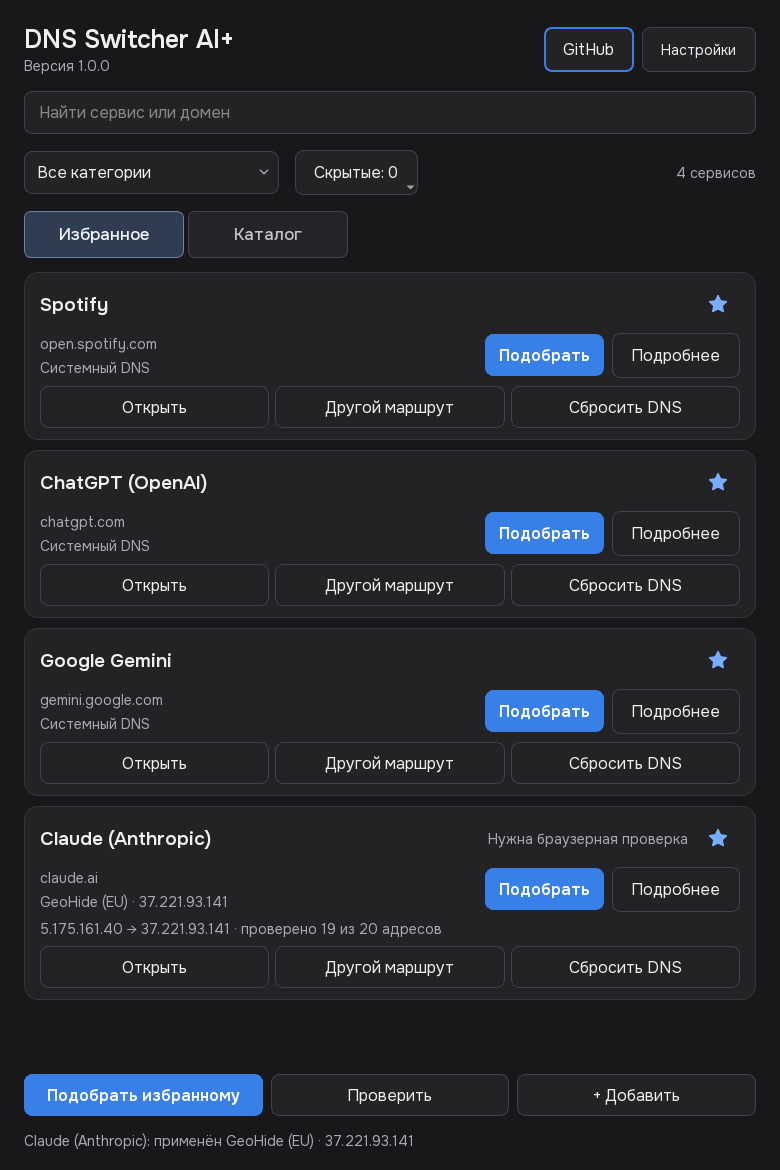
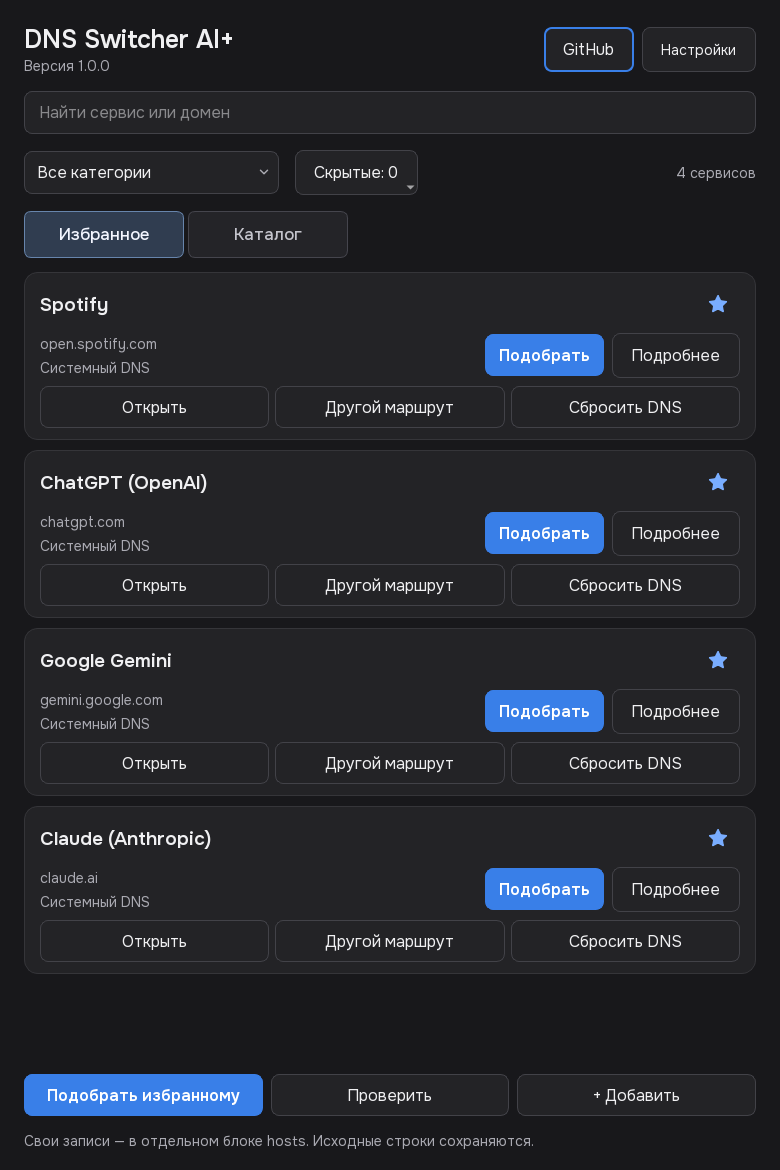
Validate provider routes strictly before applying hosts

diff --git a/tests/test_regressions.py b/tests/test_regressions.py
@@ -294,18 +294,46 @@ class Regressions(unittest.TestCase):
             self.assertTrue(client.call_args.kwargs['http2'])
             self.assertIsNone(provider.last_error)
 
-    def test_cloudflare_route_is_not_applied_without_an_explicit_switch(self):
-        service = ServiceDef(id='gemini', name='Gemini', category='AI',
-                             primary_domain='gemini.google.com', domains=['gemini.google.com'])
-        worker = VerificationWorker([service], self.hm, self.providers, self.storage, True)
-        challenge = VerificationResult('1.1.1.1', service.primary_domain, ServiceStatus.PARTIAL,
-            1, 'Cloudflare challenge: JavaScript required', 'HTTP', 403)
-        self.assertFalse(challenge.is_routable)
-        with patch.object(self.providers, 'get_candidates', return_value=[CandidateIP('1.1.1.1', 'manual', 'Test')]), \
-             patch.object(ServiceVerifier, 'verify_candidate', return_value=challenge):
+    def test_cloudflare_route_is_never_applied_even_after_explicit_switch(self):
+        for mode in ({}, {'rotate': True}, {'forced': ('1.1.1.1', 'Test')}):
+            with self.subTest(mode=mode):
+                service = ServiceDef(id='gemini', name='Gemini', category='AI',
+                                     primary_domain='gemini.google.com', domains=['gemini.google.com'])
+                before = self.hosts.read_bytes()
+                worker = VerificationWorker([service], self.hm, self.providers, self.storage, True, **mode)
+                challenge = VerificationResult('1.1.1.1', service.primary_domain, ServiceStatus.PARTIAL,
+                    1, 'Cloudflare challenge: JavaScript required', 'HTTP', 403)
+                with patch.object(self.providers, 'get_candidates', return_value=[CandidateIP('1.1.1.1', 'manual', 'Test')]), \
+                     patch.object(ServiceVerifier, 'verify_candidate', return_value=challenge):
+                    worker.run()
+                self.assertEqual(self.hosts.read_bytes(), before)
+                self.assertIsNone(self.storage.get_active_route('gemini'))
+
+    def test_failed_provider_api_does_not_stop_the_next_provider(self):
+        pool = [CandidateIP('1.1.1.1', 'first', 'First'), CandidateIP('8.8.4.4', 'second', 'Second')]
+        worker = VerificationWorker([self.service], self.hm, self.providers, self.storage, True)
+        def probe(ip, domain, **kwargs):
+            status = ServiceStatus.DEAD if domain == 'api.example.com' and ip == '1.1.1.1' else ServiceStatus.OK
+            return self._result(ip, domain, status)
+        with patch.object(self.providers, 'get_candidates', return_value=pool), \
+             patch.object(ServiceVerifier, 'verify_candidate', side_effect=probe):
             worker.run()
-        self.assertNotIn(service.primary_domain, self.hm.parse_all_entries())
-        self.assertIsNone(self.storage.get_active_route('gemini'))
+        route = self.storage.get_active_route('example')
+        self.assertEqual(route['ip'], '8.8.4.4')
+        self.assertEqual(set(route['domain_ips'].values()), {'8.8.4.4'})
+
+    def test_primary_and_api_from_incompatible_providers_are_not_combined(self):
+        pool = [CandidateIP('1.1.1.1', 'first', 'First'), CandidateIP('8.8.4.4', 'second', 'Second')]
+        before = self.hosts.read_bytes()
+        worker = VerificationWorker([self.service], self.hm, self.providers, self.storage, True)
+        def probe(ip, domain, **kwargs):
+            good = (domain == 'example.com' and ip == '1.1.1.1') or (domain == 'api.example.com' and ip == '8.8.4.4')
+            return self._result(ip, domain, ServiceStatus.OK if good else ServiceStatus.DEAD)
+        with patch.object(self.providers, 'get_candidates', return_value=pool), \
+             patch.object(ServiceVerifier, 'verify_candidate', side_effect=probe):
+            worker.run()
+        self.assertIsNone(self.storage.get_active_route('example'))
+        self.assertEqual(self.hosts.read_bytes(), before)
 
     def test_verified_response_has_priority_over_cloudflare_challenge(self):
         self.hm.update_service_ip('Example', '9.9.9.9', self.service.domains)
@@ -326,9 +354,8 @@ class Regressions(unittest.TestCase):
 
     def test_explicit_rotation_changes_ip_for_every_builtin_service(self):
         pool = [CandidateIP(ip, 'manual', 'Test') for ip in ('1.1.1.1', '8.8.4.4', '9.9.9.9')]
-        def challenge(ip, domain, **kwargs):
-            return VerificationResult(ip, domain, ServiceStatus.PARTIAL, 10,
-                                      'Cloudflare challenge: JavaScript required', 'HTTP', 403)
+        def verified(ip, domain, **kwargs):
+            return VerificationResult(ip, domain, ServiceStatus.OK, 10, 'Verified endpoint', 'HTTP', 200)
         for service in Catalog().list_all():
             with self.subTest(service=service.id):
                 original = ('127.0.0.1 localhost\r\n' +
@@ -343,12 +370,12 @@ class Regressions(unittest.TestCase):
                     self.storage.config.rejected_routes[service.id].append(previous)
                     worker = VerificationWorker([service], self.hm, self.providers, self.storage, True, rotate=True)
                     with patch.object(self.providers, 'get_candidates', return_value=pool), \
-                         patch.object(ServiceVerifier, 'verify_candidate', side_effect=challenge):
+                         patch.object(ServiceVerifier, 'verify_candidate', side_effect=verified):
                         worker.run()
                     route = self.storage.get_active_route(service.id)
                     self.assertIsNotNone(route)
                     self.assertNotEqual(route['ip'], previous)
-                    self.assertEqual(route['status'], 'PARTIAL')
+                    self.assertEqual(route['status'], 'OK')
                     self.assertFalse(route['confirmed'])
                     self.assertEqual(self.hm.parse_all_entries()[service.primary_domain], [route['ip']])
                     self.assertEqual(self.hm.parse_all_entries()['keep.example'], ['1.1.1.1'])
@@ -590,13 +617,13 @@ class Regressions(unittest.TestCase):
         self.assertEqual(route['ip'], '8.8.4.4')
         self.assertEqual(route['domain_ips']['api.example.com'], '8.8.4.4')
 
-    def test_old_disabled_geohide_regions_are_enabled_once(self):
+    def test_upgrade_preserves_disabled_geohide_regions(self):
         import json
         self.storage.config_path.write_text(json.dumps(dict(catalog_revision=5,
             providers_enabled={'geohide-ru': True, 'geohide-eu': False, 'geohide-us': False})))
         migrated = StorageManager(str(self.storage.data_dir))
-        self.assertTrue(migrated.config.providers_enabled['geohide-eu'])
-        self.assertTrue(migrated.config.providers_enabled['geohide-us'])
+        self.assertFalse(migrated.config.providers_enabled['geohide-eu'])
+        self.assertFalse(migrated.config.providers_enabled['geohide-us'])
         migrated.config.providers_enabled['geohide-eu'] = False
         migrated.save_config()
         self.assertFalse(StorageManager(str(self.storage.data_dir)).config.providers_enabled['geohide-eu'])

diff --git a/src/core/monitor.py b/src/core/monitor.py
@@ -74,21 +74,19 @@ class VerificationWorker(QThread):
         except OSError:
             return []
 
-    def _domain_route(self, check, selected, entries, current=False, required=True, service_id=None,
-                      allow_browser=False):
+    def _domain_route(self, check, selected, entries, current=False, required=True, service_id=None):
         domain, path, label, codes = check
         self.cancellation.check()
         provider_name = selected.provider_name
         names = {}
-        provider_ids = {}
         if current:
             ips = entries.get(domain, []) or self._resolve(domain)
         else:
             if required:
-                alternatives = self.provider_manager.get_candidates(domain, self.cancellation)
+                alternatives = [c for c in self.provider_manager.get_candidates(domain, self.cancellation)
+                                if c.provider_id == selected.provider_id]
                 ips = [c.ip for c in alternatives]
                 names = {c.ip: c.provider_name for c in alternatives}
-                provider_ids = {c.ip: c.provider_id for c in alternatives}
                 if not ips and self.forced:
                     ips = [selected.ip]
             else:
@@ -101,9 +99,8 @@ class VerificationWorker(QThread):
             return dict(domain=domain, label=label, ok=False, details='Нет адреса у провайдера')
         probes = parallel(ips, lambda ip: self._probe(ip, domain, path, codes),
                           self.cancellation, timeout=3.0, limit=64)
-        good = min((r for r in probes if r and (r.is_routable or (allow_browser and r.is_browser_challenge))),
-                   key=lambda r: (not r.is_routable, self._provider_rank(provider_ids.get(r.ip, selected.provider_id)),
-                                  r.latency_ms), default=None)
+        good = min((r for r in probes if r and r.is_routable),
+                   key=lambda r: (r.ip != selected.ip, r.latency_ms), default=None)
         last = good or next((r for r in probes if r), None)
         return dict(domain=domain, label=label, ok=bool(good), ip=good.ip if good else '',
                     provider=names.get(good.ip, provider_name) if good else provider_name,
@@ -119,7 +116,6 @@ class VerificationWorker(QThread):
             summary['failed'] += 1
             return
         deadline = time.monotonic() + 24
-        allow_browser = self.auto_fix and (self.rotate or bool(self.forced))
         entries = self.hosts_manager.get_service_current_ips(service.domains)
         current_ips = entries.get(service.primary_domain, [])
         current_ip = current_ips[0] if current_ips else ''
@@ -206,11 +202,11 @@ class VerificationWorker(QThread):
         checked = []
         viable = []
         for candidate, probe in zip(candidates, results):
-            checked.append(dict(ip=candidate.ip, provider_name=candidate.provider_name,
+            checked.append(dict(ip=candidate.ip, provider_id=candidate.provider_id, provider_name=candidate.provider_name,
                 status=probe.status.value if probe else 'DEAD', latency_ms=probe.latency_ms if probe else 0,
                 details=probe.details if probe else 'Тайм-аут', routable=bool(probe and probe.is_routable),
                 browser_required=bool(probe and probe.is_browser_challenge)))
-            if probe and (probe.is_routable or (allow_browser and probe.is_browser_challenge)):
+            if probe and probe.is_routable:
                 viable.append((candidate, probe))
         # Работоспособность проверяем первой; задержка сортирует подходящие кандидаты.
         if not self.prefer_provider_order:
@@ -220,8 +216,11 @@ class VerificationWorker(QThread):
                                           item[1].latency_ms))
         selected = best = report = None
         failure_report = []
+        failed_providers = set()
         for candidate, probe in viable:
             self.cancellation.check()
+            if candidate.provider_id in failed_providers:
+                continue
             if time.monotonic() >= deadline - 2:
                 break
             self.progress.emit(self.services.index(service) + 1, len(self.services),
@@ -229,7 +228,7 @@ class VerificationWorker(QThread):
             current = candidate.provider_id == 'current'
             other_checks = [check for check in checks if check[0] != service.primary_domain]
             reports = parallel(other_checks, lambda check: self._domain_route(check, candidate, entries, current,
-                               service_id=service.id, allow_browser=allow_browser),
+                               service_id=service.id),
                                self.cancellation, timeout=min(7.5, max(.1, deadline - time.monotonic())), limit=8)
             reports = [r or dict(domain=c[0], label=c[2], ok=False, details='Тайм-аут')
                        for c, r in zip(other_checks, reports)]
@@ -241,13 +240,13 @@ class VerificationWorker(QThread):
                 selected, best, report = candidate, probe, reports
                 break
             for row in checked:
-                if row['ip'] == candidate.ip:
+                if row['provider_id'] == candidate.provider_id:
                     row['routable'] = False
                     row['status'] = 'DEAD'
                     row['details'] = '; '.join(r['domain'] + ': ' + r['details'] for r in reports if not r['ok'])
-            if not self.forced and not current:
-                # Критичные узлы уже проверены по всему пулу, повтор для другого IP витрины бессмыслен.
-                break
+            # У этого провайдера проверен весь пул критичных доменов.
+            # Следующий провайдер может иметь рабочий вход/API, даже если первый не подошёл.
+            failed_providers.add(candidate.provider_id)
         self.cancellation.check()
         self.candidates_ready.emit(service.id, checked)
         if selected is None:
@@ -286,7 +285,7 @@ class VerificationWorker(QThread):
                 1 if any(part in d for part in ('cdn.', 'static', 'assets.', 'auth.', 'api.')) else 2, d))
             self.progress.emit(self.services.index(service) + 1, len(self.services), service.name + ': ресурсы и CDN')
             extras = parallel(extra, lambda d: self._domain_route((d, '/', d, (401, 404, 302, 307)),
-                selected, entries, required=False, service_id=service.id, allow_browser=allow_browser), self.cancellation,
+                selected, entries, required=False, service_id=service.id), self.cancellation,
                 timeout=min(7, max(.1, deadline - time.monotonic())), limit=8)
             for row in extras:
                 if row and row['ok']:

diff --git a/tests/test_verifier.py b/tests/test_verifier.py
@@ -57,6 +57,35 @@ class TestServiceVerifier(unittest.TestCase):
             self.assertEqual(result.http_code, 200)
             self.assertEqual(result.stage_reached, "HTTP")
 
+    def test_cloudflare_widget_and_csp_are_not_challenge_pages(self):
+        for response in (
+            b'HTTP/1.1 200 OK\r\nContent-Security-Policy: frame-src https://challenges.cloudflare.com\r\n\r\n<title>OpenRouter</title>',
+            b'HTTP/1.1 200 OK\r\n\r\n<title>Notion</title><script src="https://challenges.cloudflare.com/turnstile/v0/api.js"></script>'
+        ):
+            with self.subTest(response=response), patch('socket.socket'), patch('ssl.create_default_context') as context:
+                context.return_value.wrap_socket.return_value.recv.side_effect = [response, b'']
+                result = ServiceVerifier.verify_candidate('1.1.1.1', 'example.com')
+                self.assertEqual(result.status, ServiceStatus.OK)
+                self.assertFalse(result.is_browser_challenge)
+
+    def test_real_cloudflare_challenge_is_never_routable(self):
+        with patch('socket.socket'), patch('ssl.create_default_context') as context:
+            context.return_value.wrap_socket.return_value.recv.side_effect = [
+                b'HTTP/1.1 403 Forbidden\r\ncf-mitigated: challenge\r\n\r\n<title>Just a moment...</title>', b'']
+            result = ServiceVerifier.verify_candidate('1.1.1.1', 'example.com')
+            self.assertTrue(result.is_browser_challenge)
+            self.assertFalse(result.is_routable)
+
+    def test_accepted_redirect_is_followed_and_blocked_landing_rejected(self):
+        with patch('socket.socket'), patch('ssl.create_default_context') as context:
+            first, second = MagicMock(), MagicMock()
+            context.return_value.wrap_socket.side_effect = [first, second]
+            first.recv.side_effect = [b'HTTP/1.1 302 Found\r\nLocation: /login\r\nContent-Length: 0\r\n\r\n']
+            second.recv.side_effect = [b'HTTP/1.1 200 OK\r\n\r\nNot available in your country', b'']
+            result = ServiceVerifier.verify_candidate('1.1.1.1', 'example.com', accepted_codes=(302,))
+            self.assertEqual(result.status, ServiceStatus.DEAD)
+            self.assertIn('Geo-block', result.details)
+
     def test_isp_block_classification(self):
         with patch("socket.socket") as mock_sock_cls, \
              patch("ssl.create_default_context") as mock_ssl_ctx_cls:

diff --git a/src/core/verifier.py b/src/core/verifier.py
@@ -6,6 +6,7 @@ Stage 3: HTTP probe (status code, headers, error/block-page detection).
 """
 
 import socket
+import re
 import ssl
 import time
 from enum import Enum
@@ -171,8 +172,12 @@ class ServiceVerifier:
                    b"/unsupported-country", b"/unsupported_country", b"/app-unavailable")
             if any(sig in lower for sig in geo):
                 return result(ServiceStatus.DEAD, "Региональный запрет (Geo-block error)", code)
-            if b"cf-mitigated:" in lower or b"challenges.cloudflare.com" in lower:
-                return result(ServiceStatus.PARTIAL, "Cloudflare challenge: откройте сервис в браузере", code)
+            headers_lower, _, body_lower = lower.partition(b'\r\n\r\n')
+            challenge_header = re.search(br'(?im)^cf-mitigated:[ \t]*challenge[ \t]*\r?$', headers_lower)
+            challenge_page = (b'<title>just a moment' in body_lower and
+                              b'/cdn-cgi/challenge-platform/' in body_lower)
+            if challenge_header or challenge_page:
+                return result(ServiceStatus.PARTIAL, "Cloudflare challenge: доступ не подтверждён", code)
             if clean_domain.endswith('.oaiusercontent.com') and code == 403 and any(
                 marker in lower for marker in (b'<code>authenticationfailed</code>',
                     b'<code>publicaccessnotpermitted</code>', b'<code>authorizationfailure</code>')):
@@ -180,7 +185,7 @@ class ServiceVerifier:
             if code == 403 and clean_domain.endswith(('.googleapis.com', '.clients6.google.com')) and (
                 b'unregistered callers' in lower or b'api_key_invalid' in lower):
                 return result(ServiceStatus.OK, 'API отвечает; для запроса требуется сессия или ключ', code)
-            if code in (200, 204) or code in accepted_codes:
+            if code in (200, 204) or (code in accepted_codes and code not in (301, 302, 303, 307, 308)):
                 return result(ServiceStatus.OK, f"HTTPS отвечает (HTTP {code})", code)
             if code in (301, 302, 303, 307, 308):
                 headers = response.split(b'\r\n\r\n', 1)[0].split(b'\r\n')

diff --git a/src/ui/service_card.py b/src/ui/service_card.py
@@ -222,14 +222,14 @@ class ServiceCard(QWidget):
             row = QWidget()
             layout = QHBoxLayout(row)
             layout.setContentsMargins(0, 0, 0, 0)
-            state = 'Cloudflare: нужна проверка в браузере' if candidate.get('browser_required') else candidate['status']
+            state = 'Cloudflare: доступ не подтверждён' if candidate.get('browser_required') else candidate['status']
             label = QLabel(f"{candidate['provider_name']}  /  {candidate['ip']}  /  {state}")
             label.setTextFormat(Qt.PlainText)
             label.setWordWrap(True)
             label.setStyleSheet('font-size: 14px;')
             layout.addWidget(label, 1)
-            if candidate['status'] == 'OK' or candidate.get('routable') or candidate.get('browser_required'):
-                button = QPushButton('Попробовать' if candidate.get('browser_required') else 'Выбрать')
+            if candidate['status'] == 'OK' or candidate.get('routable'):
+                button = QPushButton('Выбрать')
                 button.clicked.connect(lambda checked=False, c=candidate:
                     self.apply_ip_requested.emit(self.service.id, c['ip'], c['provider_name']))
                 layout.addWidget(button)

diff --git a/tests/test_providers.py b/tests/test_providers.py
@@ -68,6 +68,16 @@ class TestProviders(unittest.TestCase):
         eu_ips = [c.ip for c in eu_cands]
         self.assertIn("5.175.161.40", eu_ips)
 
+    def test_public_dns_and_matching_origin_addresses_are_not_bypass_routes(self):
+        manager = ProviderManager()
+        google = manager.get_provider('google-public-dns')
+        smart = manager.get_provider('dns-ai')
+        for provider in manager.list_providers():
+            provider.enabled = provider in (google, smart)
+        with patch.object(google, 'fetch_candidates', return_value=[CandidateIP('8.8.8.8', google.id, google.name)]), \
+             patch.object(smart, 'fetch_candidates', return_value=[CandidateIP('8.8.8.8', smart.id, smart.name), CandidateIP('1.1.1.1', smart.id, smart.name)]):
+            self.assertEqual([c.ip for c in manager.get_candidates('example.com')], ['1.1.1.1'])
+
     def test_provider_manager_dedup_and_priority(self):
         manager = ProviderManager()
         with patch.object(GeoHideProvider, 'fetch_candidates', return_value=[CandidateIP('1.1.1.1', 'geohide-ru', 'GeoHide')]), \

diff --git a/src/providers/manager.py b/src/providers/manager.py
@@ -86,6 +86,10 @@ class ProviderManager:
             return value
 
         batches = parallel(sorted_providers, fetch, cancellation, timeout=4.0)
+        # Обычный DNS нужен для сравнения. Его нативные адреса не являются GEO-прокси,
+        # даже если другой резолвер вернул тот же IP и главная страница отвечает.
+        origin_ips = {c.ip for p, batch in zip(sorted_providers, batches)
+                      if p.id == 'google-public-dns' for c in (batch or [])}
         for p, p_cands in zip(sorted_providers, batches):
             try:
                 p_cands = p_cands or []
@@ -93,6 +97,8 @@ class ProviderManager:
                     try:
                         c.ip = public_ip(c.ip)
                     except ValueError:
+                        continue
+                    if p.id == 'google-public-dns' or c.ip in origin_ips:
                         continue
                     if c.ip not in seen_ips:
                         seen_ips.add(c.ip)

diff --git a/src/core/storage.py b/src/core/storage.py
@@ -144,10 +144,8 @@ class StorageManager:
             self.save_config()
 
         if self.config.catalog_revision < 6:
-            # Старые версии оставляли EU/US выключенными, обрезая пул до двух маршрутов.
-            for region in ('ru', 'eu', 'us'):
-                self.config.providers_enabled['geohide-' + region] = True
-            self.config.providers_enabled['google-public-dns'] = True
+            # Обновление базы не переопределяет выбранные пользователем регионы.
+            self.config.providers_enabled.setdefault('google-public-dns', True)
             self.config.rejected_routes.clear()
             self.config.catalog_revision = 6
             self.save_config()

diff --git a/README.md b/README.md
@@ -15,8 +15,8 @@ Portable EXE: [Releases](https://github.com/pryanus/dns-switcher-ai-plus/release
 ## Использование
 
 1. При запуске приложение проверяет активные записи избранного в hosts без изменения файла. Если главная страница и критичные API отвечают, показывает **Маршрут отвечает** и сохраняет его, независимо от провайдера. **Подобрать** также сначала проверяет текущий маршрут.
-2. **Маршрут отвечает** означает доступность проверенных сетевых узлов. Без авторизации приложение не доказывает работу функций аккаунта. Кнопка ручного подтверждения удалена. Подозрительный трафик и региональные ошибки исключаются из успешного подбора. При явной смене маршрута или ручном выборе можно попробовать адрес с браузерной защитой Cloudflare; он помечается «Нужна браузерная проверка», без заявления о подтверждённом обходе. Обычный и фоновый подбор такие адреса не применяет.
-3. Большая кнопка **Другой маршрут** явно запускает смену адреса и перебирает пул по кругу. Сначала проверяется пригодность. GeoHide имеет приоритет перед другими провайдерами; задержка сравнивается внутри одного приоритета. При обновлении старых настроек один раз включаются GeoHide RU/EU/US, дальнейшие отключения сохраняются. Рабочий активный DNS ради меньшего отклика самопроизвольно не меняется. После полного круга ранее пропущенные IP снова доступны, кроме активного адреса. Карточка показывает старый и новый IP, число проверенных адресов и размер пула. «Подробнее» содержит список кандидатов. Если альтернативы нет, текущий маршрут сохраняется и это явно сообщается. **Начать пул сначала** в деталях сбрасывает выбор и начинает подбор с GeoHide по приоритету провайдеров. DNS-AI можно отключить в настройках провайдеров.
+2. **Маршрут отвечает** означает доступность проверенных сетевых узлов. Без авторизации приложение не доказывает работу функций аккаунта. Кнопка ручного подтверждения удалена. Подозрительный трафик и региональные ошибки исключаются из успешного подбора. Cloudflare challenge исключается из применения при любом способе подбора, включая «Другой маршрут» и ручной выбор. Обычное подключение Turnstile или разрешение Cloudflare в CSP страницы не считается блокировкой. Редиректы проверяются до конечного ответа, даже если их код указан в профиле сервиса.
+3. Большая кнопка **Другой маршрут** явно запускает смену адреса и перебирает пул по кругу. Сначала проверяется пригодность. GeoHide имеет приоритет перед другими провайдерами; задержка сравнивается внутри одного приоритета. Состояние провайдеров и регионов сохраняется при обновлении; выключенные EU/US не включаются автоматически. Рабочий активный DNS ради меньшего отклика самопроизвольно не меняется. После полного круга ранее пропущенные IP снова доступны, кроме активного адреса. Карточка показывает старый и новый IP, число проверенных адресов и размер пула. «Подробнее» содержит список кандидатов. Если альтернативы нет, текущий маршрут сохраняется и это явно сообщается. **Начать пул сначала** в деталях сбрасывает выбор и начинает подбор с GeoHide по приоритету провайдеров. DNS-AI можно отключить в настройках провайдеров.
 
 В настройках на вкладке **Обновление** можно проверить GitHub и скачать/установить новую стабильную версию. Файл проверяется по SHA-256; EXE заменяется после завершения приложения, предыдущая версия сохраняется рядом. Системный hosts и настройки обновлением не перезаписываются.
 
@@ -24,11 +24,11 @@ Portable EXE: [Releases](https://github.com/pryanus/dns-switcher-ai-plus/release
 
 **Сбросить DNS** виден прямо на карточке сервиса без раскрытия деталей. **Сбросить DNS всех сервисов** виден внизу настроек на любой вкладке. Сброс удаляет исключительно блоки DNS Switcher и возвращает исходные записи; перед изменением создаётся бэкап. Исходные строки выбранных доменов временно отключаются, чтобы Windows не возвращала старые IP вместе с выбранным. Они сохраняются в помеченных комментариях внутри hosts и восстанавливаются при сбросе, включая кодировку и окончания строк. Другие домены на общей строке продолжают работать. DNS адаптера не меняется.
 
-Каталог сверяется тестами с опубликованными hosts GeoHide/MALW и списком сервисов Zapret. Для GitHub Copilot используются точные имена из базы MALW. GeoHide предоставляет по 15 адресов для ChatGPT и Gemini; кандидаты не ограничены двумя IP. База MALW входит в EXE и обновляется из официального источника.
+Критичные домены проверяются в рамках одного провайдера, с предпочтением выбранного IP. Если его API не прошёл проверку, подбор продолжает проверку следующего провайдера. Каталог сверяется тестами с опубликованными hosts GeoHide/MALW и списком сервисов Zapret; это означает заявленную поддержку, а не подтверждение всех функций аккаунта. Для GitHub Copilot используются точные имена из базы MALW. GeoHide предоставляет по 15 адресов для ChatGPT и Gemini; кандидаты не ограничены двумя IP. База MALW входит в EXE и обновляется из официального источника.
 
 Есть звёздочки избранного, скрытие/возврат сервисов, параллельные проверки с отменой, обновление баз, настраиваемый фоновый мониторинг и защита от повторного запуска.
 
-Провайдеры: GeoHide RU/EU/US, MALW DNS, Zapret DNS, DNS-AI, Google Public DNS и пользовательские. Google Public DNS — обычный резолвер через официальный DoH; он имеет последний приоритет и сам по себе не предоставляет GEO-обход. **Проверить** не записывает hosts. **Подобрать** добавляет проверенные адреса в отдельные блоки, сохраняет исходные строки и создаёт резервную копию. DNS адаптера не меняется. Блоки сервисов разделены пустыми строками, IP и домены выровнены пробелами. Настройки и резервные копии остаются локальными.
+Провайдеры: GeoHide RU/EU/US, MALW DNS, Zapret DNS, DNS-AI, Google Public DNS и пользовательские. Google Public DNS — обычный резолвер через официальный DoH для сравнения: его адреса и совпадающие с ними нативные IP других резолверов исключаются из пула GEO-обхода. **Проверить** не записывает hosts. **Подобрать** добавляет проверенные адреса в отдельные блоки, сохраняет исходные строки и создаёт резервную копию. DNS адаптера не меняется. Блоки сервисов разделены пустыми строками, IP и домены выровнены пробелами. Настройки и резервные копии остаются локальными.
 
 ## Ограничения
 
